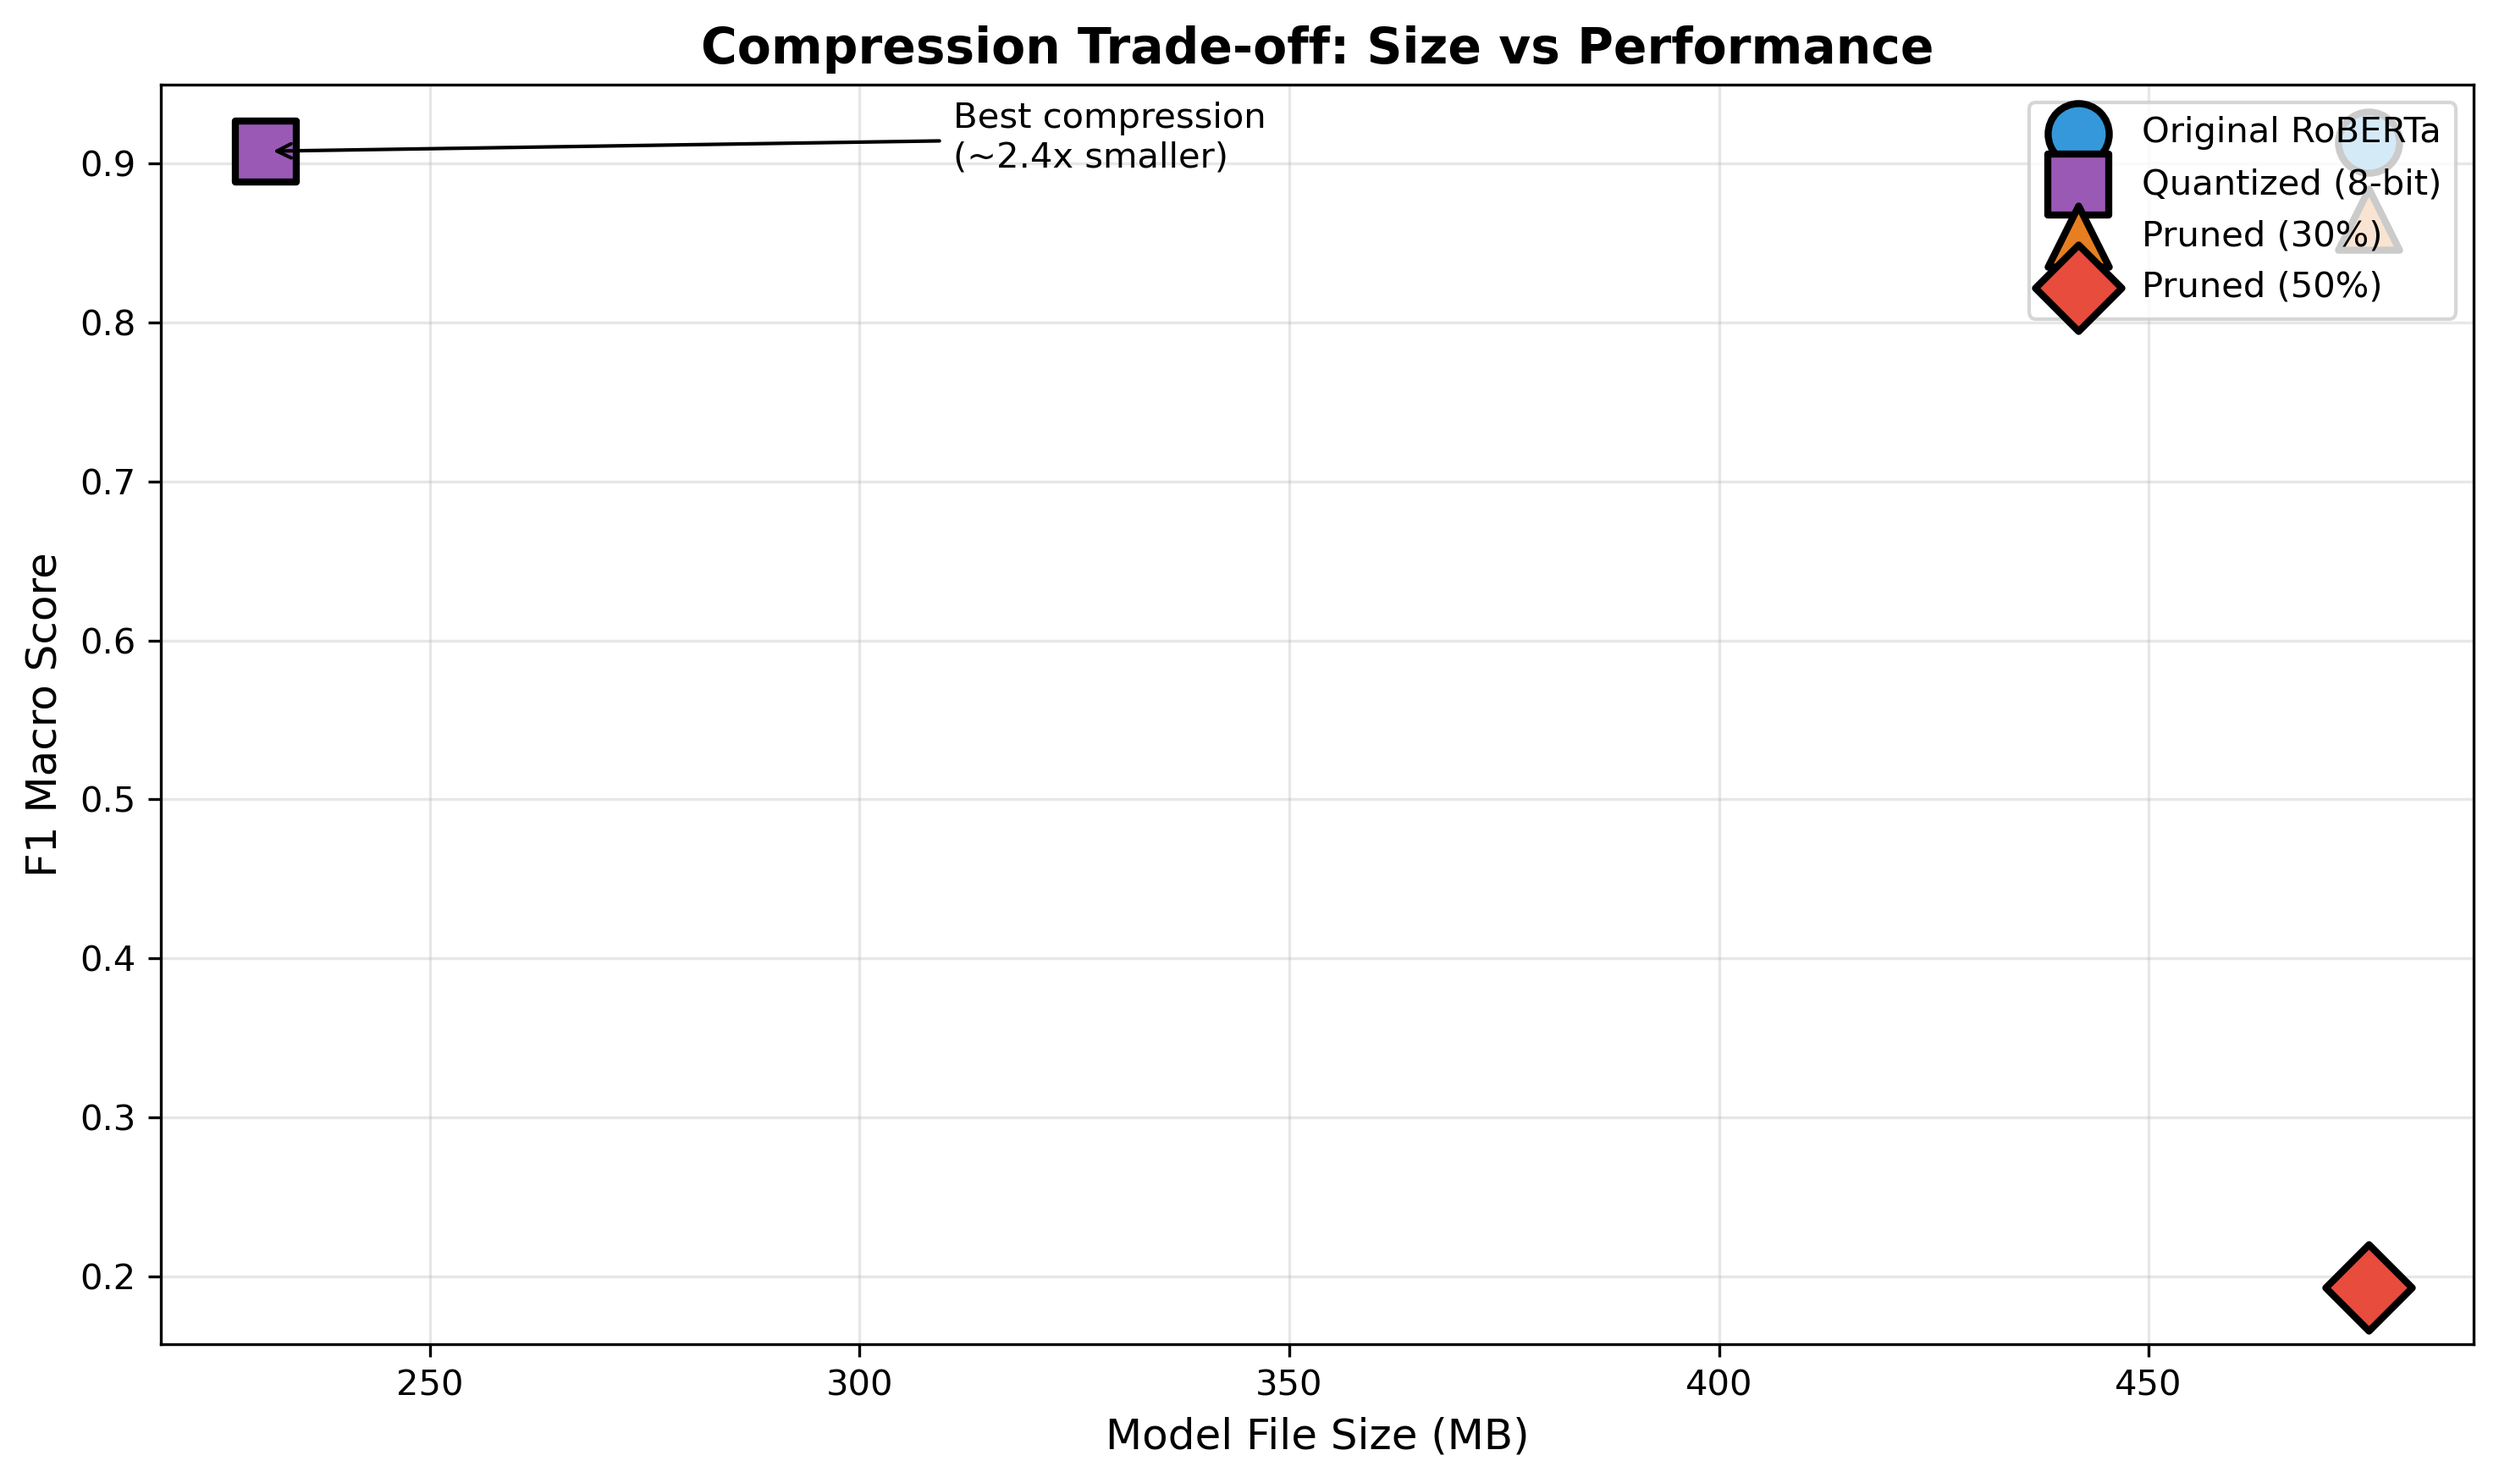
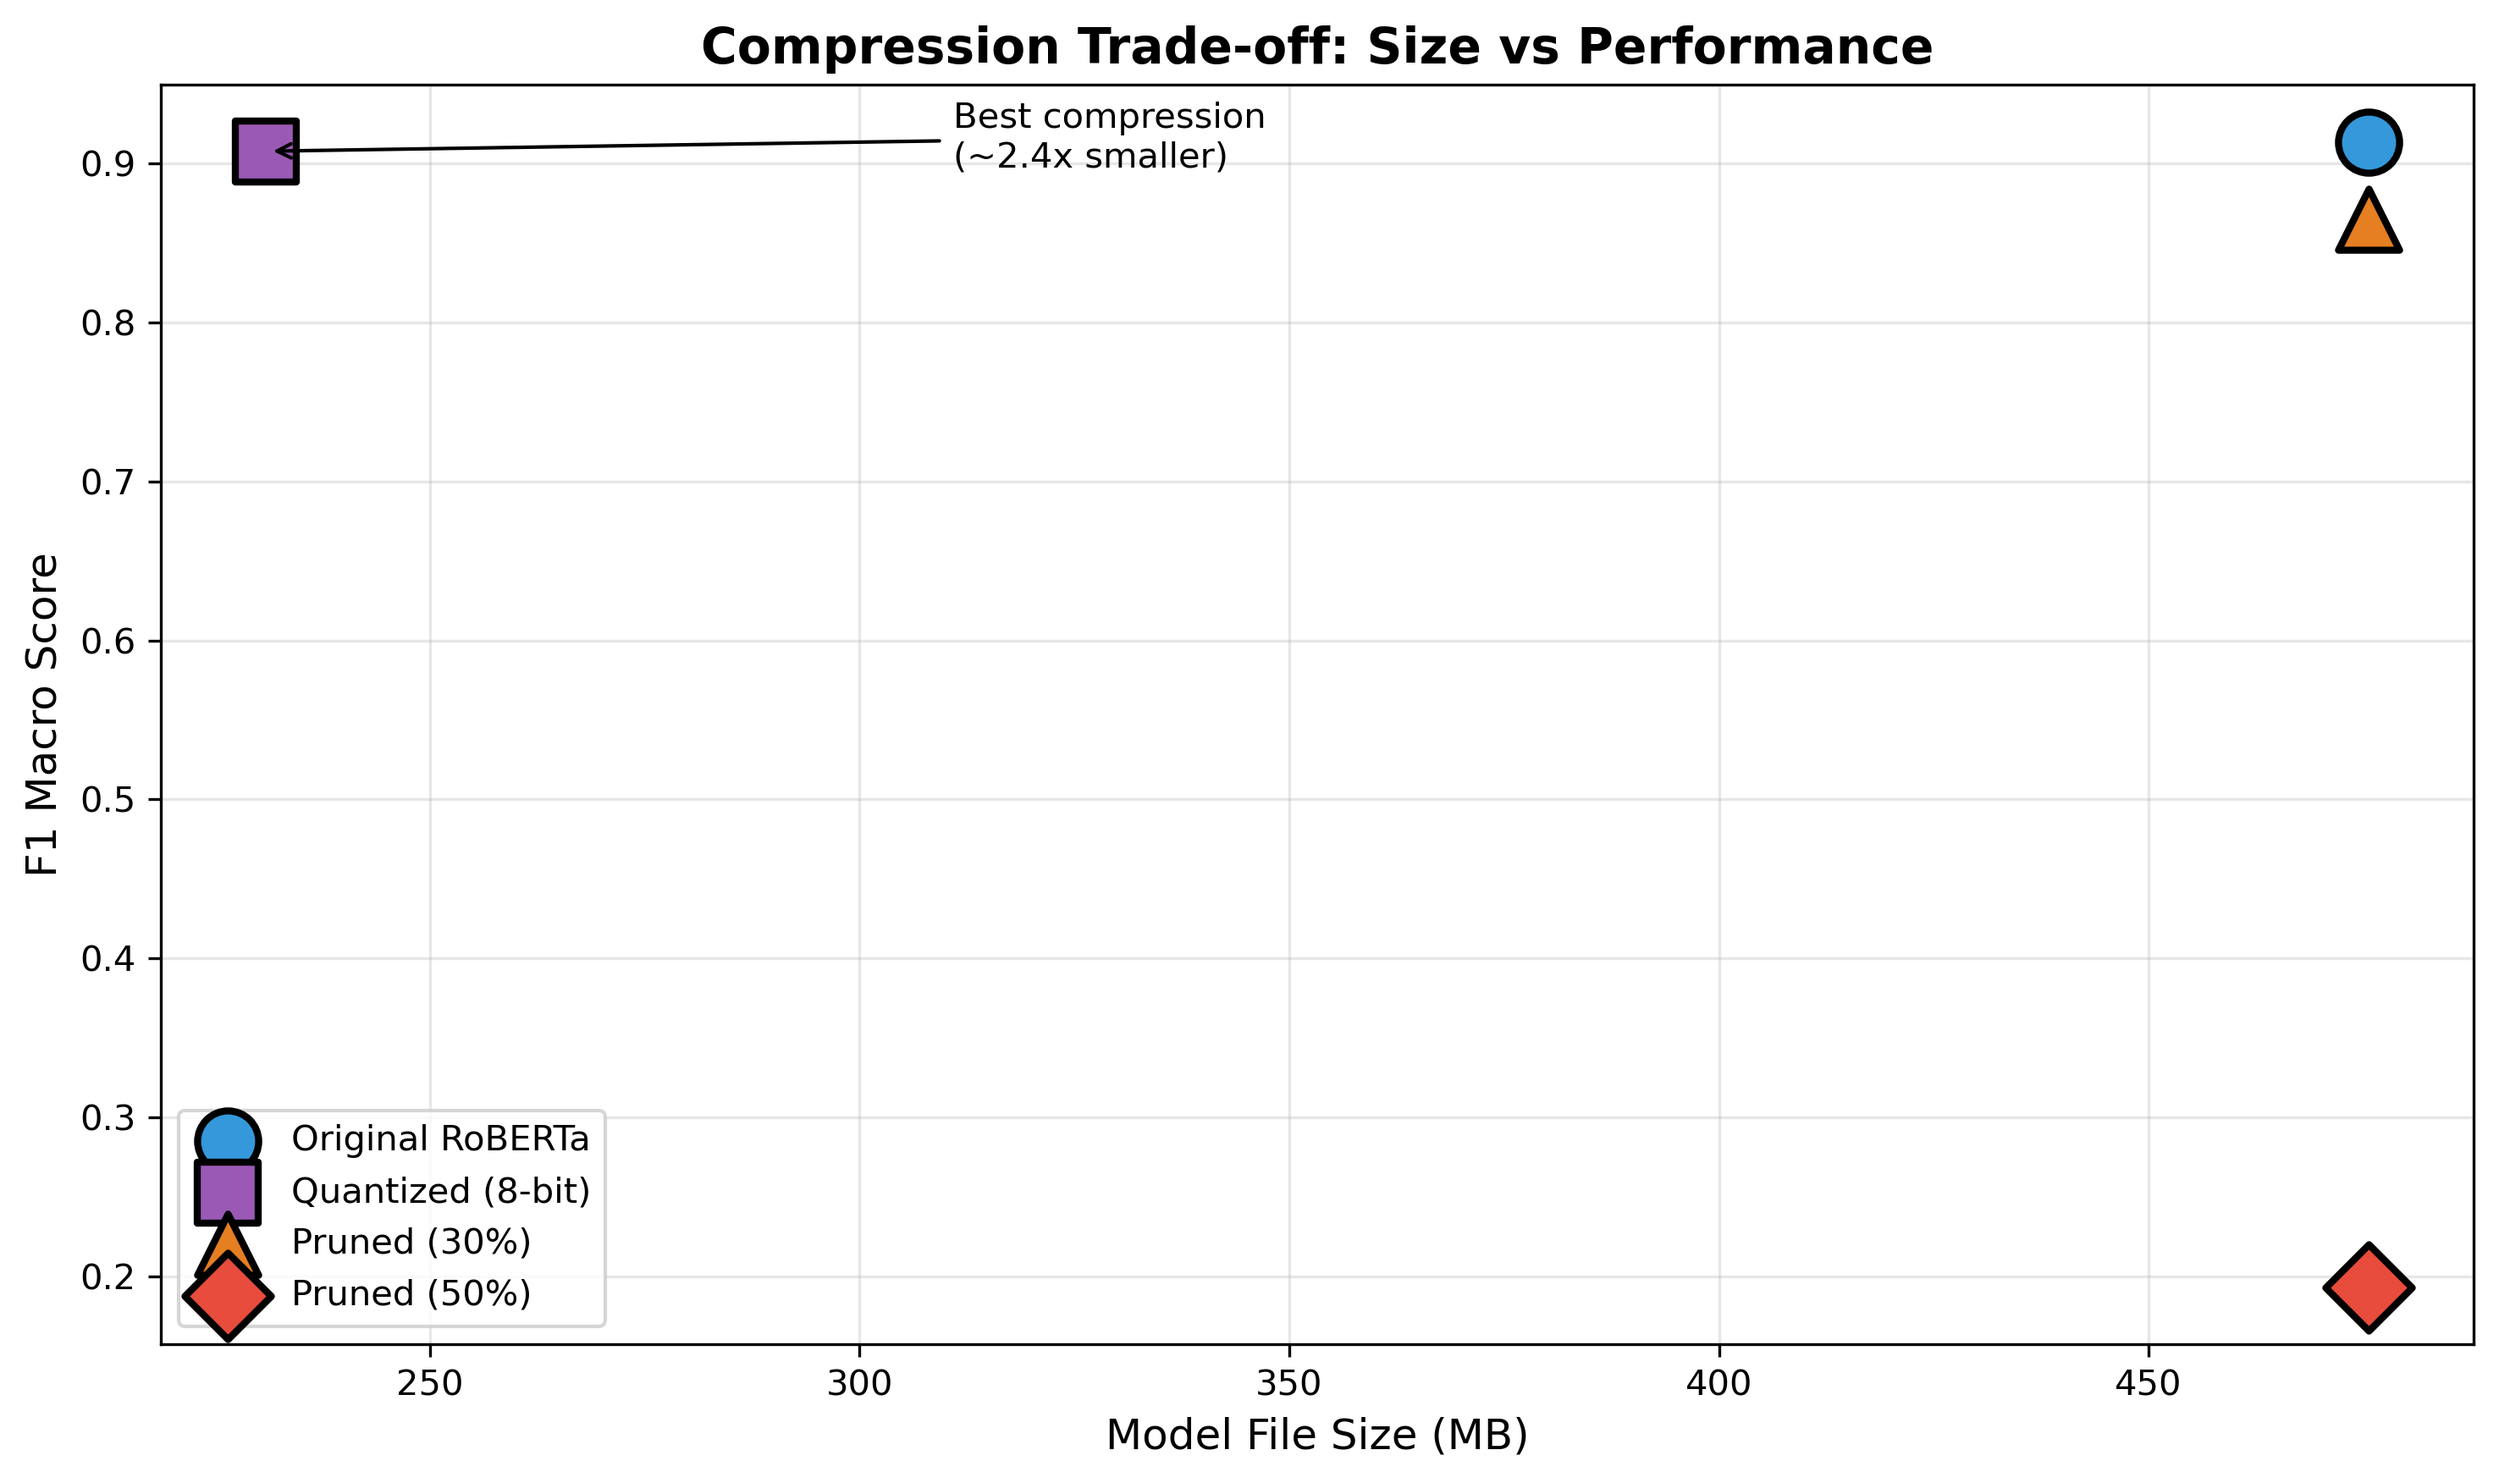
v2.1

Changed region(s): [[0.0623, 0.7397, 0.2493, 0.8938], [0.8103, 0.0616, 0.9973, 0.2158]]

diff --git a/compare_models.py b/compare_models.py
@@ -328,7 +328,7 @@ def plot_compression_tradeoff():
     ax.set_xlabel('Model File Size (MB)', fontsize=12)
     ax.set_ylabel('F1 Macro Score', fontsize=12)
     ax.set_title('Compression Trade-off: Size vs Performance', fontsize=14, fontweight='bold')
-    ax.legend(loc='upper right', fontsize=10)
+    ax.legend(loc='lower left', fontsize=10)
     ax.grid(True, alpha=0.3)
     
     # Add annotation for best trade-off (quantized model)
